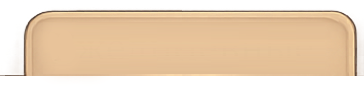
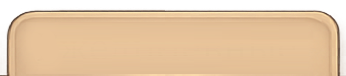
TasksPanel.ts finished

Changed region(s): [[0.0, 0.1053, 1.0, 1.0]]

diff --git a/src/view/component/house/TasksPanel.ts b/src/view/component/house/TasksPanel.ts
@@ -271,10 +271,10 @@ export default class TasksPanel extends ClosablePanel {
     private static TAB_TOP: number = 237;
     private static TAB_HIT_HEIGHT: number = 87;
     private static TAB_SLOT_WIDTH: number = 383;
-    private static TAB_ACTIVE_WIDTH: number = 364;
-    private static TAB_LEFT_LEFT: number = 149;
-    private static TAB_RIGHT_LEFT: number = 510;
-    private static TAB_RIGHT_ACTIVE_LEFT: number = TasksPanel.TAB_RIGHT_LEFT + TasksPanel.TAB_SLOT_WIDTH - TasksPanel.TAB_ACTIVE_WIDTH;
+    private static TAB_WIDTH: number = 346;
+    private static TAB_INNER_SHIFT: number = 10;
+    private static TAB_LEFT_SLOT_LEFT: number = 131 + TasksPanel.TAB_INNER_SHIFT;
+    private static TAB_RIGHT_SLOT_LEFT: number = 510 - TasksPanel.TAB_INNER_SHIFT;
     private static TAB_LABEL_WRAP_WIDTH: number = 320;
     private static PANEL_LEFT: number = 64;
     private static PANEL_TOP: number = 176;
@@ -317,6 +317,7 @@ export default class TasksPanel extends ClosablePanel {
     private progressBarEndReward: Phaser.Sprite;
     private progressBarEndCheck: Phaser.Sprite;
     private progressBarCropRect: Phaser.Rectangle;
+    private progressBarFullBaseWidth: number;
     private rewardIcons: Phaser.Sprite[] = [];
     private rewardChecks: Phaser.Sprite[] = [];
     private taskCards: TaskCardPanel[] = [];
@@ -366,13 +367,13 @@ export default class TasksPanel extends ClosablePanel {
         this.createFixedSprite("tasksPanelProgressEmpty", "progressBarEmpty", 133, 354);
         this.progressBarFull = this.createFixedSprite("tasksPanelProgressFull", "progressBarFull", 133, 354);
         this.progressBarChest = this.createFixedSprite("tasksPanelChest", "progressBarChest", 716, 365);
-        this.progressBarCropRect = new Phaser.Rectangle(0, 0, this.progressBarFull.width, this.progressBarFull.height);
+        this.progressBarFullBaseWidth = this.progressBarFull.width;
+        this.progressBarCropRect = new Phaser.Rectangle(0, 0, this.progressBarFullBaseWidth, this.progressBarFull.height);
 
-        this.closeButton = this.attachButton("closeButtonViolet", () => this.close(), "closeButton");
-        this.closeButton.anchor.set(0);
-        this.closeButton.x = this.psdX(874);
-        this.closeButton.y = this.psdY(194);
-        this.closeButton.scale.set(0.95);
+        this.closeButton = this.attachButton("tasksPanelClose", () => this.close(), "closeButton");
+        this.closeButton.anchor.set(0.5);
+        this.closeButton.x = this.psdX(898);
+        this.closeButton.y = this.psdY(208);
 
         this.titleLabel = this.attachText("title", LocalizationService.get("ui.tasks.title", "Задания"), {
             font: "46px Bookman Old Style",
@@ -604,10 +605,8 @@ export default class TasksPanel extends ClosablePanel {
 
     private layoutTab(tabSprite: Phaser.Sprite, button: Phaser.Button, label: Label, side: "left" | "right", selected: boolean): void {
         const key = selected ? "tasksPanelTabActive" : "tasksPanelTabInactive";
-        const spriteLeft = side == "left"
-            ? TasksPanel.TAB_LEFT_LEFT
-            : (selected ? TasksPanel.TAB_RIGHT_ACTIVE_LEFT : TasksPanel.TAB_RIGHT_LEFT);
-        const buttonLeft = side == "left" ? TasksPanel.TAB_LEFT_LEFT : TasksPanel.TAB_RIGHT_LEFT;
+        const buttonLeft = side == "left" ? TasksPanel.TAB_LEFT_SLOT_LEFT : TasksPanel.TAB_RIGHT_SLOT_LEFT;
+        const spriteLeft = buttonLeft + Math.round((TasksPanel.TAB_SLOT_WIDTH - TasksPanel.TAB_WIDTH) / 2);
 
         this.loadTabTexture(tabSprite, key);
         tabSprite.anchor.set(0);
@@ -846,7 +845,7 @@ export default class TasksPanel extends ClosablePanel {
 
     private updateProgressBar(progressRatio: number, rewards: TaskRewardView[]): void {
         const clampedRatio = Math.max(0, Math.min(1, progressRatio || 0));
-        const cropWidth = Math.round(this.progressBarFull.width * clampedRatio);
+        const cropWidth = Math.round(this.progressBarFullBaseWidth * clampedRatio);
         const finalReward = rewards && rewards.length > 0 ? rewards[rewards.length - 1] : null;
         const progressTarget = finalReward ? Math.max(1, finalReward.progressTarget) : 1;
 

diff --git a/src/view/screen/LoadingScreen.ts b/src/view/screen/LoadingScreen.ts
@@ -311,6 +311,7 @@ export default class LoadingScreen extends BaseScreen {
         this.loadImage('tasksPanelTaskBg', 'assets/base/task/task_bg.png');
         this.loadImage('tasksPanelTaskItemBg', 'assets/base/task/task_item_bg.png');
         this.loadImage('tasksPanelTaskRewardBg', 'assets/base/task/task_reward_bg.png');
+        this.loadImage('tasksPanelClose', 'assets/base/task/task_panel_close.png');
         this.loadImage('tasksPanelTaskProgressEmpty', 'assets/base/task/task_progress_empty.png');
         this.loadImage('tasksPanelTaskProgressFull', 'assets/base/task/task_progress_full.png');
         this.loadImage('keyUI', 'assets/base/ui/key.png');
